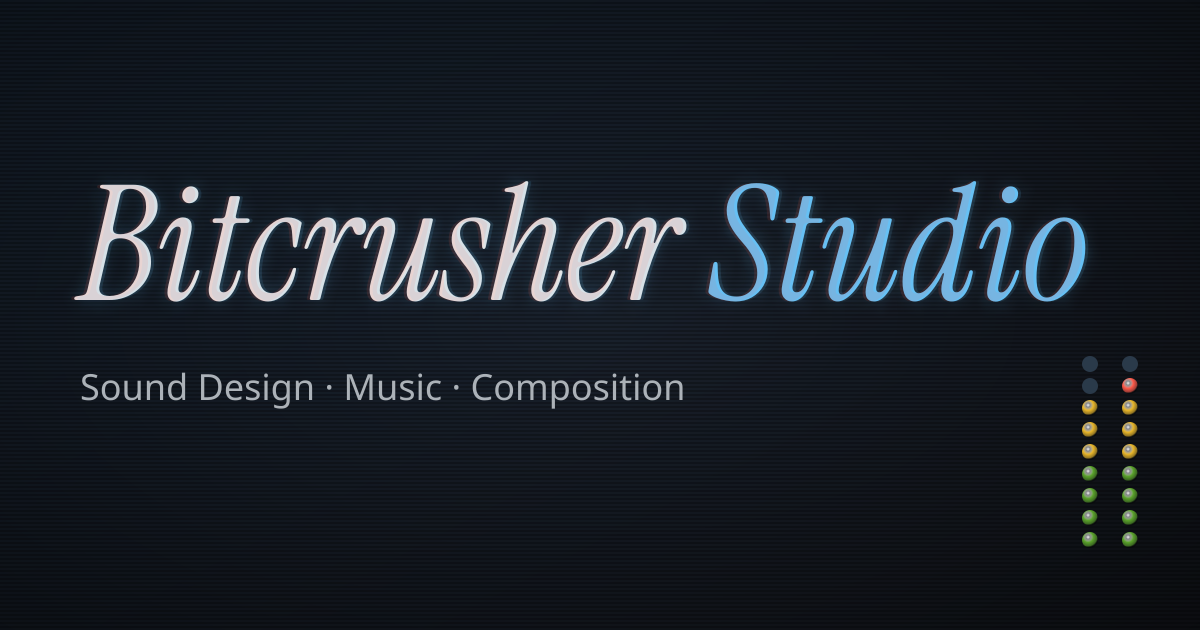
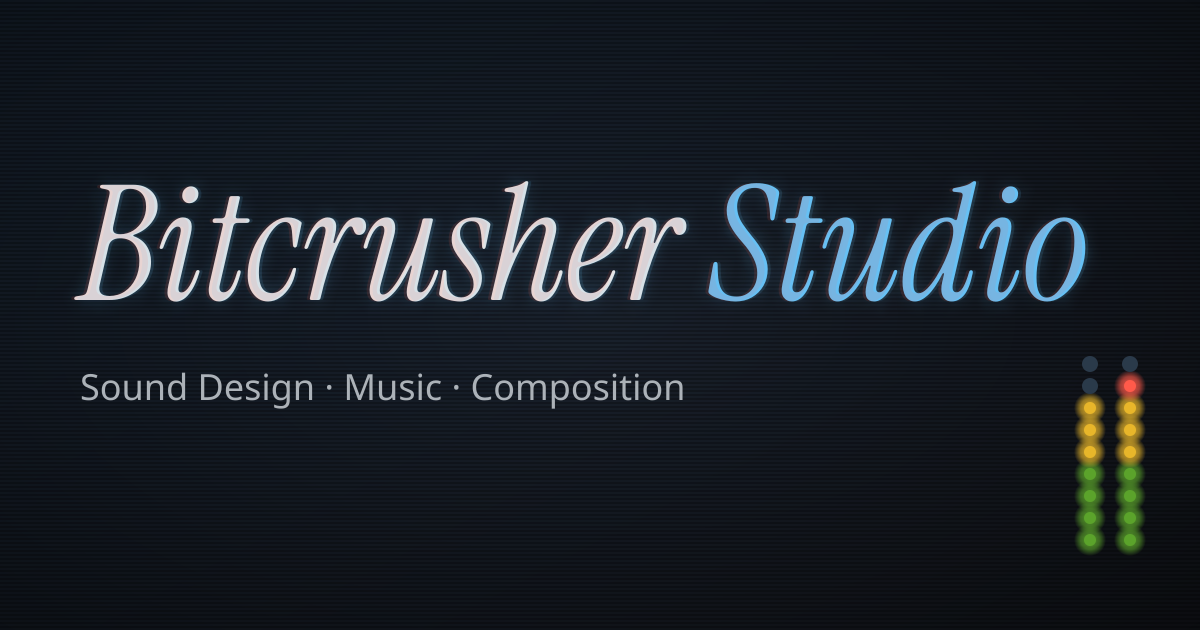
🎨 fix: OG LEDs emit light (solid core + outward-fading glow)

Changed region(s): [[0.8942, 0.573, 0.9558, 0.8746]]

diff --git a/scripts/generate-og-images.ts b/scripts/generate-og-images.ts
@@ -28,7 +28,7 @@ const vuLed = (
 	id: string,
 ): string =>
 	lit
-		? `<defs><radialGradient id="${id}" cx="38%" cy="32%" r="65%"><stop offset="0%" stop-color="white" stop-opacity="0.95"/><stop offset="20%" stop-color="white" stop-opacity="0.5"/><stop offset="50%" stop-color="${color}"/><stop offset="85%" stop-color="${color}" stop-opacity="0.6"/><stop offset="100%" stop-color="#000" stop-opacity="0.3"/></radialGradient></defs><circle cx="${x}" cy="${y}" r="8" fill="url(#${id})"/>`
+		? `<defs><radialGradient id="${id}"><stop offset="0%" stop-color="${color}"/><stop offset="60%" stop-color="${color}" stop-opacity="0.6"/><stop offset="100%" stop-color="${color}" stop-opacity="0"/></radialGradient></defs><circle cx="${x}" cy="${y}" r="16" fill="url(#${id})"/><circle cx="${x}" cy="${y}" r="6" fill="${color}"/>`
 		: `<circle cx="${x}" cy="${y}" r="8" fill="#2a3a4a"/>`;
 
 const vuColumn = (x: number, level: number): string => {
